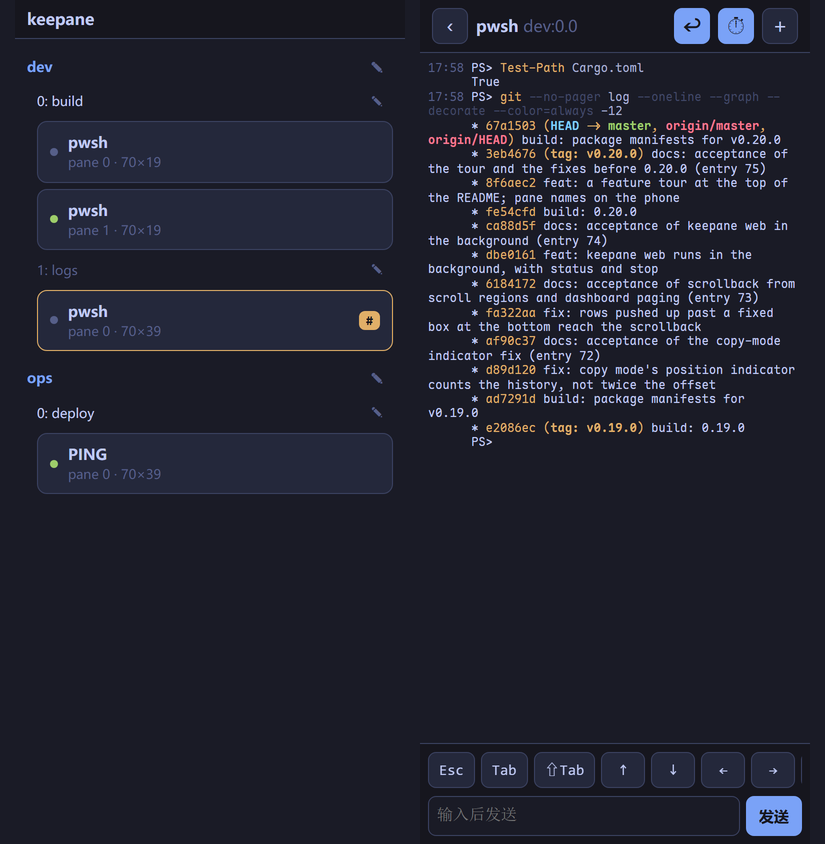
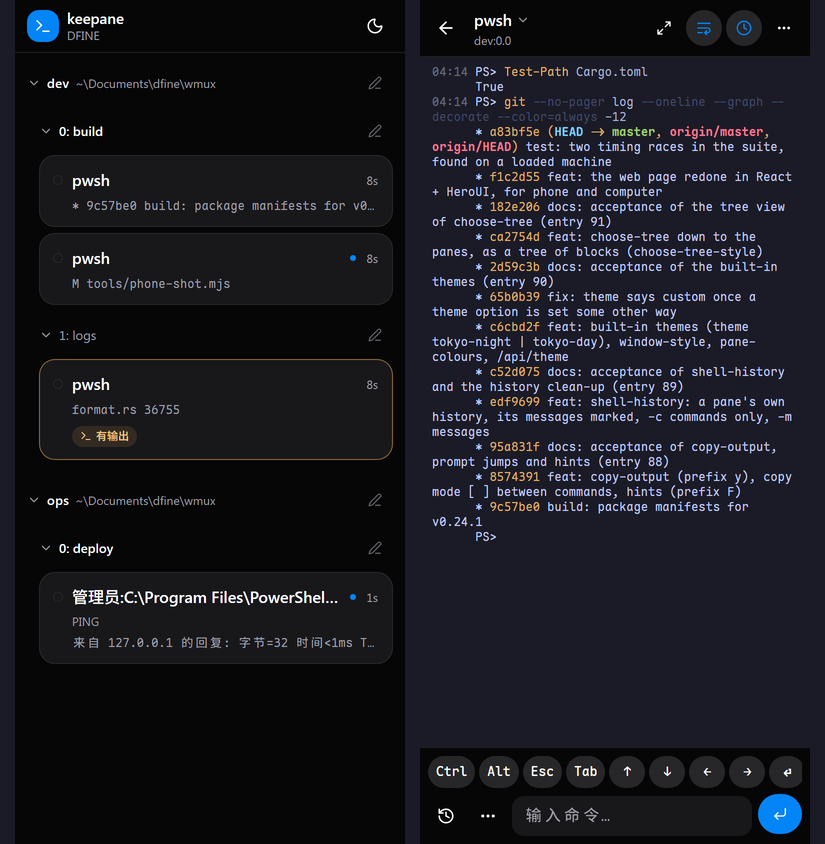
docs: the site and the phone pictures show the new web page
The keys are above the box now (Ctrl, Alt, more under the ⋯ beside it),
the pane's menu is ⋯ and also renames and shows the inbox, the times
are under a clock button, and a computer's browser and the page's own
light/dark look get a line of their own. The pictures are taken again
(dark page, list and pane); phone-shot.mjs takes the list, which has no
screen now.

diff --git a/docs/index.html b/docs/index.html
@@ -164,7 +164,7 @@ keepane link capture 192.168.1.20:7681/%agent</code></pre>
           <figure class="shot"><img src="img/viewer.png" alt="A day of history in the pager popup, each command after a grey line with its time" loading="lazy" /></figure>
         </div>
         <ul class="points">
-          <li data-i18n="ch.p1">The time goes in the blank end of the line. The pane keeps its width and nothing is added to what the program printed. On the phone, the ⏱ button puts the times in a column of their own.</li>
+          <li data-i18n="ch.p1">The time goes in the blank end of the line. The pane keeps its width and nothing is added to what the program printed. On the phone, the clock button puts the times in a column of their own.</li>
           <li data-i18n="ch.p2">What scrolls off a pane is written to a file for that pane and day, kept for 30 days, with a line of times before each command. In the pager, <kbd>[</kbd> and <kbd>]</kbd> jump from command to command and <kbd>/</kbd> searches.</li>
           <li data-i18n="ch.p3">Closed the wrong pane or window? It is kept for 10 seconds with its program still running, and <kbd>C-b u</kbd> puts it back where it was.</li>
         </ul>
@@ -257,9 +257,10 @@ keepane link capture 192.168.1.20:7681/%agent</code></pre>
         </figure>
         <ul class="points">
           <li data-i18n="cw.p1">keepane sends the screen again whenever it changes, colours included, and you can scroll up through what already went by. The list carries each window's alert marks (<b>#</b> printed, <b>!</b> bell, <b>~</b> silent), so a finished job shows up without opening it.</li>
-          <li data-i18n="cw.p2">A row under the screen has the keys a phone keyboard lacks: Esc, Tab, Shift+Tab, the arrows, Ctrl+C, y, n, 1, 2 and 3. Longer input goes in the text box. The <kbd>+</kbd> menu splits the pane, opens a window or closes the pane.</li>
+          <li data-i18n="cw.p2">A row above the text box has the keys a phone keyboard lacks: Ctrl, Alt, Esc, Tab, the arrows, Enter and Ctrl+C, with Shift+Tab, y, n, 1, 2, 3 and a few more under the ⋯ beside the box. The ⋯ menu in the pane's bar splits the pane, opens a window, renames, shows the inbox or closes the pane.</li>
           <li data-i18n="cw.p5">Each pane shows under its name: a dot for free or busy, how many messages wait in its inbox, and the last thing it printed. The ⤢ button sizes a pane to the phone for a full-screen program, and gives it back when you leave.</li>
           <li data-i18n="cw.p6">When a pane is done (a long command ended, an agent finished its turn) the page says so: a banner to tap, a sound, a buzz. For a locked phone, keepane posts to ntfy, Feishu, WeCom, DingTalk, Slack or Discord (<code>done-webhook</code>), or runs a hook of yours.</li>
+          <li data-i18n="cw.p7">The same page works in a computer's browser, with the list on the left and the pane on the right. The page has its own light and dark look, and from it you can switch the terminal's theme too (Tokyo Night or Tokyo Day), which changes it on the computer as well.</li>
           <li data-i18n="cw.p3">Commands run on the computer. The phone can read panes, type into them and use that menu, nothing more; <code>--read-only</code> leaves out the typing.</li>
           <li data-i18n="cw.p4">It is off until you start it; the keepane server then serves it in the background until <code>keepane web stop</code>, and <code>keepane web status</code> shows who is connected. The QR code carries a new 128-bit key each start. It is plain HTTP, which is fine on a home network; from outside, go through Tailscale or a similar private network.</li>
         </ul>

diff --git a/docs/site.js b/docs/site.js
@@ -29,11 +29,13 @@ const ZH = {
   "cw.p1":
     "屏幕一有变化，keepane 就把新内容推过来，颜色保留，也能往上翻看已经滚过去的输出。列表上带着每个窗口的提醒标记（<b>#</b> 有输出，<b>!</b> 响铃，<b>~</b> 没动静），任务跑完了不用点进去也看得到。",
   "cw.p2":
-    "屏幕下方有一排手机键盘上没有的键：Esc、Tab、Shift+Tab、方向键、Ctrl+C，以及 y、n、1、2、3。长一点的内容在输入框里打。<kbd>+</kbd> 菜单可以分屏、开新窗口或关掉当前 pane。",
+    "输入框上方有一排手机键盘上没有的键：Ctrl、Alt、Esc、Tab、方向键、回车和 Ctrl+C；Shift+Tab、y、n、1、2、3 等收在输入框旁边的 ⋯ 里。pane 顶栏的 ⋯ 菜单可以分屏、开新窗口、重命名、看收件箱或关掉当前 pane。",
   "cw.p5":
     "每个 pane 的名字下面：一个表示空闲或忙的小圆点、收件箱里排着几条消息、它最后输出的一行。⤢ 按钮把 pane 调成手机屏幕的大小，方便看全屏程序，离开时自动恢复。",
   "cw.p6":
     "pane 完成时（长命令跑完、agent 这一轮结束）页面会提醒你：顶部横幅（点一下跳过去）、响一声、震动。手机锁屏也要收到的话，keepane 可以推到 ntfy、飞书、企业微信、钉钉、Slack、Discord（<code>done-webhook</code>），或者运行你自己的 hook。",
+  "cw.p7":
+    "电脑的浏览器也能打开同一个页面：左边是列表，右边是 pane。页面有自己的日间和夜间样式；也可以在页面上切换终端主题（Tokyo Night 或 Tokyo Day），电脑上的终端会跟着变。",
   "cw.p3": "命令在电脑上执行。手机只能看 pane、往里输入、用那个菜单，别的做不了；加 <code>--read-only</code> 就只能看。",
   "cw.p4":
     "不启动就不开；启动后由 keepane 的 server 在后台提供服务，直到 <code>keepane web stop</code>，<code>keepane web status</code> 可以看谁连着。二维码里的 128 位密钥每次启动都重新生成。用的是普通 HTTP，在家里的网络没问题；在外面用，中间接一层 Tailscale 之类的私有网络。",
@@ -80,7 +82,7 @@ const ZH = {
   "ch.caption":
     "三条命令和它们的时间，其中一条失败；历史面板和查看器里的一天；手滑关掉的 pane，<kbd>C-b u</kbd> 找回来。",
   "ch.p1":
-    "时间画在行尾的空白里。pane 宽度不变，程序输出的内容一个字不改。手机上点 ⏱ 按钮，时间单独占一栏。",
+    "时间画在行尾的空白里。pane 宽度不变，程序输出的内容一个字不改。手机上点时钟按钮，时间单独占一栏。",
   "ch.p2":
     "从 pane 顶上滚出去的内容写进这个 pane 当天的文件，留 30 天，每条命令前面有一行它的时间。查看器里 <kbd>[</kbd> <kbd>]</kbd> 在命令之间跳，<kbd>/</kbd> 搜索。",
   "ch.p3": "关错了 pane 或窗口？它会保留 10 秒，程序还在跑，按 <kbd>C-b u</kbd> 放回原处。",

diff --git a/tests/e2e.rs b/tests/e2e.rs
@@ -4126,7 +4126,7 @@ async fn the_phone_page_shows_and_orders_an_inbox() {
 
 /// `keepane web` end to end over real HTTP: the key is asked for, the list
 /// names the panes, text typed on the phone runs in the pane (`-` first
-/// included), the screen comes back with it, and the + menu splits.
+/// included), the screen comes back with it, and the ⋯ menu splits.
 #[tokio::test(flavor = "multi_thread")]
 async fn the_phone_page_lists_shows_types_and_splits() {
     let h = Harness::start("web").await;
@@ -4172,7 +4172,7 @@ async fn the_phone_page_lists_shows_types_and_splits() {
     assert_eq!(code, 200);
     assert!(joined.contains(&long), "{joined}");
 
-    // The + menu; the new pane starts in the directory of the pane it came
+    // The ⋯ menu; the new pane starts in the directory of the pane it came
     // from, not where the web client runs.
     let (cd, there) = if cfg!(windows) { ("cd /d C:\\Windows", "[c:\\windows]") } else { ("cd /usr", "[/usr]") };
     h.cli(&["send-keys", "-t", "w:0", cd, "Enter"]).await;

diff --git a/src/web.rs b/src/web.rs
@@ -50,7 +50,7 @@ const KEYS: &[&str] = &[
     "NPage", "DC",
 ];
 
-/// What the page's + menu and its names can do, and nothing else.
+/// What the page's ⋯ menu and its names can do, and nothing else.
 const ACTIONS: &[&str] = &["new-window", "split-h", "split-v", "kill-pane", "rename-session", "rename-window"];
 
 /// How `web-start` serves: its flags (`keepane web` passes its own on).
